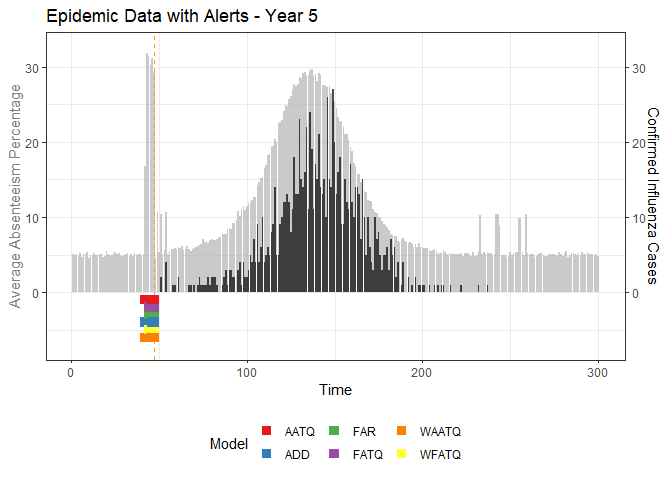
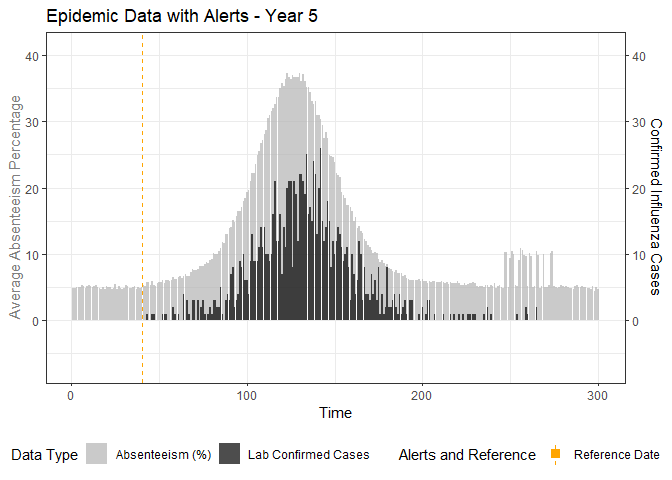
README updated

diff --git a/README.md b/README.md
@@ -90,34 +90,22 @@ Please see example below:
 library(ATQ)
 
 #Simulate number of elementary schools in each catchment
-catch_df <- catchment_sim(16, 4.68, 3.01, 5)
+catch_df <- catchment_sim(16, 5, shape = 4.68, rate = 3.01)
 
 # Simulate elementary school populations for each catchment area
-elementary_df <- elementary_pop(catch_df, 5.86, 0.01)
-
-# Set up file connection to simulate user input for subpop_children() function
-f <- file()
-lines <- c(0.7668901,0.3634045, 0.4329440, 0.2036515,0.5857832, 0.3071523, 0.1070645,0.4976825)
-ans <- paste(lines, collapse = "\n")
-write(ans, f)
-options("usr_con" = f) # Set connection option to use file instead of stdin
+elementary_df <- elementary_pop(catch_df, shape = 5.86, rate = 0.01)
 
 # Simulate households with children
-house_children <- subpop_children(elementary_df, n = 2)
-#> Please enter proportion of parents as a couple: Enter proportion of coupled parents with 1, 2, 3+ children separated by space:Enter proportion of single parents with 1, 2, 3+ children separated by space:Please enter proportion of children that are of elementary school age:
-
-# Prepare input for subpop_noChildren() function
-lines <- c(0.23246269, 0.34281716, 0.16091418, 0.16427239, 0.09953358, 0.4277052)
-ans <- paste(lines, collapse = "\n")
-write(ans, f)
+house_children <- subpop_children(elementary_df, n = 2,
+                                  prop_parent_couple = 0.7,
+                                  prop_children_couple = c(0.3, 0.5, 0.2),
+                                  prop_children_lone = c(0.4, 0.4, 0.2),
+                                  prop_elem_age = 0.6)
 
 # Simulate households without children
-house_nochildren <- subpop_noChildren(house_children, elementary_df)
-#> Please enter proportion of households with 1, 2, 3, 4, 5+ members separted by space: Please enter proportion of households with children:
-
-# Clean up file connection
-close(f)
-options("usr_con" = stdin()) # Reset connection option to standard input
+house_nochildren <-  subpop_noChildren(house_children, elementary_df,
+                                   prop_house_size = c(0.2, 0.3, 0.25, 0.15, 0.1),
+                                   prop_house_Children = 0.3)
 
 # Combine household simulations and generate individual-level data
 simulation <- simulate_households(house_children, house_nochildren)
@@ -133,13 +121,13 @@ summary(epidemic)
 #> SSIR Epidemic Summary (Multiple Simulations):
 #> Number of simulations: 10 
 #> 
-#> Average total infected: 47897.2 
-#> Average total reported cases: 961.3 
-#> Average peak infected: 3537.6 
+#> Average total infected: 60047.7 
+#> Average total reported cases: 1190.7 
+#> Average peak infected: 4325.2 
 #> 
 #> Model parameters:
 #> $N
-#> [1] 157544
+#> [1] 197227
 #> 
 #> $T
 #> [1] 300
@@ -177,8 +165,8 @@ dplyr::glimpse(absent_data)
 #> Columns: 28
 #> $ Date        <int> 1, 2, 3, 4, 5, 6, 7, 8, 9, 10, 11, 12, 13, 14, 15, 16, 17,…
 #> $ ScYr        <int> 1, 1, 1, 1, 1, 1, 1, 1, 1, 1, 1, 1, 1, 1, 1, 1, 1, 1, 1, 1…
-#> $ pct_absent  <dbl> 0.05083952, 0.04989393, 0.04901167, 0.04987701, 0.04879853…
-#> $ absent      <dbl> 858, 850, 842, 853, 830, 865, 903, 891, 820, 879, 896, 912…
+#> $ pct_absent  <dbl> 0.04925325, 0.04640617, 0.04858373, 0.04855402, 0.04963313…
+#> $ absent      <dbl> 792, 744, 786, 776, 794, 769, 785, 783, 758, 793, 771, 829…
 #> $ absent_sick <dbl> 0, 0, 0, 0, 0, 0, 0, 0, 0, 0, 0, 0, 0, 0, 0, 0, 0, 0, 0, 0…
 #> $ new_inf     <dbl> 0, 0, 0, 0, 0, 0, 0, 0, 0, 0, 0, 0, 0, 0, 0, 0, 0, 0, 0, 0…
 #> $ lab_conf    <dbl> 0, 0, 0, 0, 0, 0, 0, 0, 0, 0, 0, 0, 0, 0, 0, 0, 0, 0, 0, 0…
@@ -187,20 +175,20 @@ dplyr::glimpse(absent_data)
 #> $ costerm     <dbl> 0.9998520, 0.9994082, 0.9986686, 0.9976335, 0.9963032, 0.9…
 #> $ window      <dbl> 0, 0, 0, 0, 0, 0, 0, 0, 0, 0, 0, 0, 0, 0, 0, 0, 0, 0, 0, 0…
 #> $ ref_date    <dbl> 0, 0, 0, 0, 0, 0, 0, 0, 0, 0, 0, 0, 0, 0, 0, 0, 0, 0, 0, 0…
-#> $ lag0        <dbl> 0.05083952, 0.04989393, 0.04901167, 0.04987701, 0.04879853…
-#> $ lag1        <dbl> NA, 0.05083952, 0.04989393, 0.04901167, 0.04987701, 0.0487…
-#> $ lag2        <dbl> NA, NA, 0.05083952, 0.04989393, 0.04901167, 0.04987701, 0.…
-#> $ lag3        <dbl> NA, NA, NA, 0.05083952, 0.04989393, 0.04901167, 0.04987701…
-#> $ lag4        <dbl> NA, NA, NA, NA, 0.05083952, 0.04989393, 0.04901167, 0.0498…
-#> $ lag5        <dbl> NA, NA, NA, NA, NA, 0.05083952, 0.04989393, 0.04901167, 0.…
-#> $ lag6        <dbl> NA, NA, NA, NA, NA, NA, 0.05083952, 0.04989393, 0.04901167…
-#> $ lag7        <dbl> NA, NA, NA, NA, NA, NA, NA, 0.05083952, 0.04989393, 0.0490…
-#> $ lag8        <dbl> NA, NA, NA, NA, NA, NA, NA, NA, 0.05083952, 0.04989393, 0.…
-#> $ lag9        <dbl> NA, NA, NA, NA, NA, NA, NA, NA, NA, 0.05083952, 0.04989393…
-#> $ lag10       <dbl> NA, NA, NA, NA, NA, NA, NA, NA, NA, NA, 0.05083952, 0.0498…
-#> $ lag11       <dbl> NA, NA, NA, NA, NA, NA, NA, NA, NA, NA, NA, 0.05083952, 0.…
-#> $ lag12       <dbl> NA, NA, NA, NA, NA, NA, NA, NA, NA, NA, NA, NA, 0.05083952…
-#> $ lag13       <dbl> NA, NA, NA, NA, NA, NA, NA, NA, NA, NA, NA, NA, NA, 0.0508…
+#> $ lag0        <dbl> 0.04925325, 0.04640617, 0.04858373, 0.04855402, 0.04963313…
+#> $ lag1        <dbl> NA, 0.04925325, 0.04640617, 0.04858373, 0.04855402, 0.0496…
+#> $ lag2        <dbl> NA, NA, 0.04925325, 0.04640617, 0.04858373, 0.04855402, 0.…
+#> $ lag3        <dbl> NA, NA, NA, 0.04925325, 0.04640617, 0.04858373, 0.04855402…
+#> $ lag4        <dbl> NA, NA, NA, NA, 0.04925325, 0.04640617, 0.04858373, 0.0485…
+#> $ lag5        <dbl> NA, NA, NA, NA, NA, 0.04925325, 0.04640617, 0.04858373, 0.…
+#> $ lag6        <dbl> NA, NA, NA, NA, NA, NA, 0.04925325, 0.04640617, 0.04858373…
+#> $ lag7        <dbl> NA, NA, NA, NA, NA, NA, NA, 0.04925325, 0.04640617, 0.0485…
+#> $ lag8        <dbl> NA, NA, NA, NA, NA, NA, NA, NA, 0.04925325, 0.04640617, 0.…
+#> $ lag9        <dbl> NA, NA, NA, NA, NA, NA, NA, NA, NA, 0.04925325, 0.04640617…
+#> $ lag10       <dbl> NA, NA, NA, NA, NA, NA, NA, NA, NA, NA, 0.04925325, 0.0464…
+#> $ lag11       <dbl> NA, NA, NA, NA, NA, NA, NA, NA, NA, NA, NA, 0.04925325, 0.…
+#> $ lag12       <dbl> NA, NA, NA, NA, NA, NA, NA, NA, NA, NA, NA, NA, 0.04925325…
+#> $ lag13       <dbl> NA, NA, NA, NA, NA, NA, NA, NA, NA, NA, NA, NA, NA, 0.0492…
 #> $ lag14       <dbl> NA, NA, NA, NA, NA, NA, NA, NA, NA, NA, NA, NA, NA, NA, 0.…
 #> $ lag15       <dbl> NA, NA, NA, NA, NA, NA, NA, NA, NA, NA, NA, NA, NA, NA, NA…
 
@@ -253,78 +241,78 @@ summary(alarm_metrics$summary)
 #> =====================
 #> 
 #> FAR :
-#>   Mean: 0.5538 
-#>   Variance: 0.0044 
-#>   Best lag: 14 
-#>   Best threshold: 0.25 
-#>   Best value: 0.4121 
+#>   Mean: 0.8241 
+#>   Variance: 0.0135 
+#>   Best lag: 10 
+#>   Best threshold: 0.15 
+#>   Best value: 0.5278 
 #> 
 #> ADD :
-#>   Mean: 20.2613 
-#>   Variance: 28.3687 
+#>   Mean: 32.2061 
+#>   Variance: 32.0479 
 #>   Best lag: 1 
 #>   Best threshold: 0.1 
-#>   Best value: 9.6667 
+#>   Best value: 19.2222 
 #> 
 #> AATQ :
-#>   Mean: 0.4169 
-#>   Variance: 0.0076 
-#>   Best lag: 1 
+#>   Mean: 0.7761 
+#>   Variance: 0.0149 
+#>   Best lag: 12 
 #>   Best threshold: 0.1 
-#>   Best value: 0.2361 
+#>   Best value: 0.4856 
 #> 
 #> FATQ :
-#>   Mean: 0.4454 
-#>   Variance: 0.0043 
-#>   Best lag: 14 
+#>   Mean: 0.7984 
+#>   Variance: 0.0134 
+#>   Best lag: 10 
 #>   Best threshold: 0.15 
-#>   Best value: 0.3159 
+#>   Best value: 0.5082 
 #> 
 #> WAATQ :
-#>   Mean: 0.393 
-#>   Variance: 0.0104 
+#>   Mean: 0.8538 
+#>   Variance: 0.0178 
 #>   Best lag: 1 
 #>   Best threshold: 0.1 
-#>   Best value: 0.1799 
+#>   Best value: 0.5087 
 #> 
 #> WFATQ :
-#>   Mean: 0.4426 
-#>   Variance: 0.0065 
-#>   Best lag: 14 
-#>   Best threshold: 0.25 
-#>   Best value: 0.3022 
+#>   Mean: 0.8614 
+#>   Variance: 0.0175 
+#>   Best lag: 1 
+#>   Best threshold: 0.1 
+#>   Best value: 0.5213 
 #> 
 #> Reference Dates:
 #>    epidemic_years ref_dates
-#> 1               1        60
-#> 2               2        55
-#> 3               3        40
-#> 4               4        46
-#> 5               5        47
-#> 6               6        67
-#> 7               7        83
-#> 8               8        47
-#> 9               9        63
-#> 10             10        81
+#> 1               1        49
+#> 2               2        43
+#> 3               3        68
+#> 4               4        65
+#> 5               5        40
+#> 6               6        48
+#> 7               7        42
+#> 8               8        43
+#> 9               9        52
+#> 10             10        22
 #> 
 #> Best Prediction Dates:
 #> FAR :
-#>  [1] NA 50 NA 46 44 54 55 NA 58 61
+#>  [1] NA 38 42 56 NA NA NA 43 45 NA
 #> 
 #> ADD :
-#>  [1] NA 52 NA 45 42 42 36 47 45 46
+#>  [1] NA NA 36 45 NA 48 NA 41 42 NA
 #> 
 #> AATQ :
-#>  [1] NA 52 NA 45 42 42 36 47 45 46
+#>  [1] NA 39 39 56 NA NA NA 26 45 NA
 #> 
 #> FATQ :
-#>  [1] NA 50 NA 41 44 49 54 NA 47 59
+#>  [1] NA 38 42 56 NA NA NA 43 45 NA
 #> 
 #> WAATQ :
-#>  [1] NA 52 NA 45 42 42 36 47 45 46
+#>  [1] NA NA 36 45 NA 48 NA 41 42 NA
 #> 
 #> WFATQ :
-#>  [1] NA 50 NA 46 44 54 55 NA 58 61
+#>  [1] NA NA 36 45 NA 48 NA 41 42 NA
 
 # Generate and display plots for alarm metrics across epidemic years
 alarm_plots <- plot(alarm_metrics$plot_data)
@@ -333,31 +321,27 @@ for(i in seq_along(alarm_plots)) {
 }
 ```
 
-<img src="man/figures/README-example-17.png" width="100%" /><img src="man/figures/README-example-18.png" width="100%" />
+<img src="man/figures/README-example-17.png" width="100%" />
 
-    #> Warning: Removed 7 rows containing missing values (`geom_col()`).
+    #> Warning: Removed 19 rows containing missing values or values outside the scale range
+    #> (`geom_col()`).
 
-<img src="man/figures/README-example-19.png" width="100%" />
+<img src="man/figures/README-example-18.png" width="100%" />
 
-    #> Warning: Removed 12 rows containing missing values (`geom_col()`).
+    #> Warning: Removed 37 rows containing missing values or values outside the scale range
+    #> (`geom_col()`).
 
-<img src="man/figures/README-example-20.png" width="100%" />
+<img src="man/figures/README-example-19.png" width="100%" /><img src="man/figures/README-example-20.png" width="100%" /><img src="man/figures/README-example-21.png" width="100%" /><img src="man/figures/README-example-22.png" width="100%" />
 
-    #> Warning: Removed 52 rows containing missing values (`geom_col()`).
+    #> Warning: Removed 5 rows containing missing values or values outside the scale range
+    #> (`geom_col()`).
 
-<img src="man/figures/README-example-21.png" width="100%" />
+<img src="man/figures/README-example-23.png" width="100%" />
 
-    #> Warning: Removed 88 rows containing missing values (`geom_col()`).
+    #> Warning: Removed 4 rows containing missing values or values outside the scale range
+    #> (`geom_col()`).
 
-<img src="man/figures/README-example-22.png" width="100%" /><img src="man/figures/README-example-23.png" width="100%" />
-
-    #> Warning: Removed 27 rows containing missing values (`geom_col()`).
-
-<img src="man/figures/README-example-24.png" width="100%" />
-
-    #> Warning: Removed 117 rows containing missing values (`geom_col()`).
-
-<img src="man/figures/README-example-25.png" width="100%" />
+<img src="man/figures/README-example-24.png" width="100%" /><img src="man/figures/README-example-25.png" width="100%" />
 
 The final output ‘region_metric’ will be a list of 6 matrices and 6 data
 frames. The matrices describe the values of metrics for respective lag
@@ -366,31 +350,5 @@ and thresholds.
 An optimal lag and threshold value that minimizes each metric is
 selected and these optimal parameters are used to generate the 6 data
 frames associated with the metrics. Simulated information like number of
-lab confirmed cases, number of students absent, etc, are included in the
-output.
-
-These data frames contain 19 variables and are as follows:
-
-- lag, Best selected lagged absenteeism value.
-- thres, Best selected threshold value.
-- Data, Day (1-300).
-- ScYr, School year.
-- Actual.case, Total number of true cases (unconfirmed).
-- case.elem, Number of true cases that are elementary school children.
-- Case.No, Number of lab confirmed cases.
-- Case, Binary variable to indicate whether there has been a lab
-  confirmed case for the day.
-- pct.absent, Percent of students absent in total school population.
-- absent, Total number of students absent.
-- absent.sick, Total number of students absent due to illness.
-- window, 14 day true alarm window for ADD and FAR calculations (binary
-  variable).
-- ref.date, Reference date (first day where there are two lab confirmed
-  cases in a 7 day period).
-- Alarm, Binary variable indicating whether alarm was raised (1 -
-  raised, 0 - not raised).
-- ATQ, Alert time quality (metric).
-- FAR, False alarm rate (metric).
-- ADD, Accumulated days delayed (metric).
-- AATQ, Average alarm time quality (metric).
-- FATQ, First alarm time quality (metric).
+lab confirmed cases, number of students absent, etc, are also included
+in the output.
